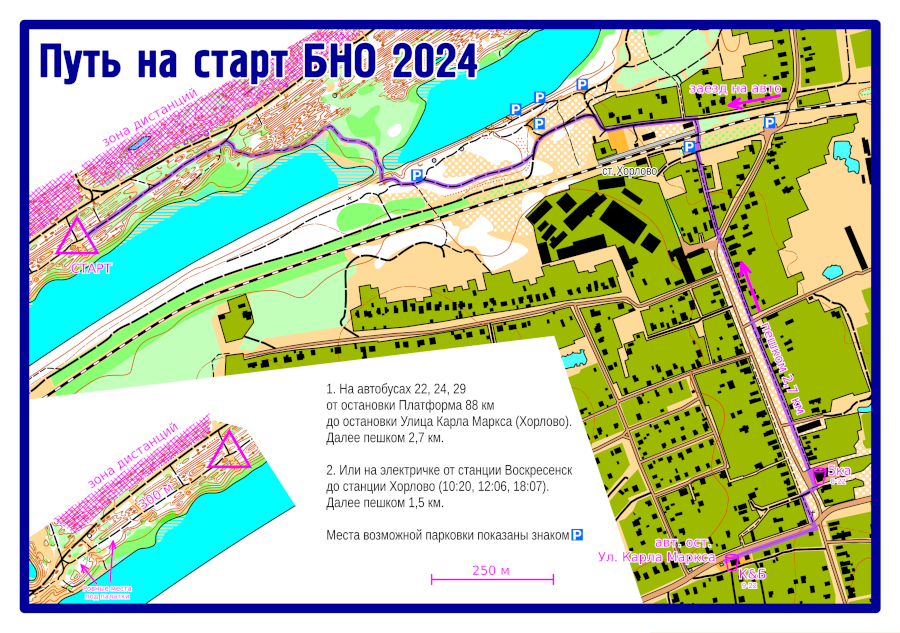
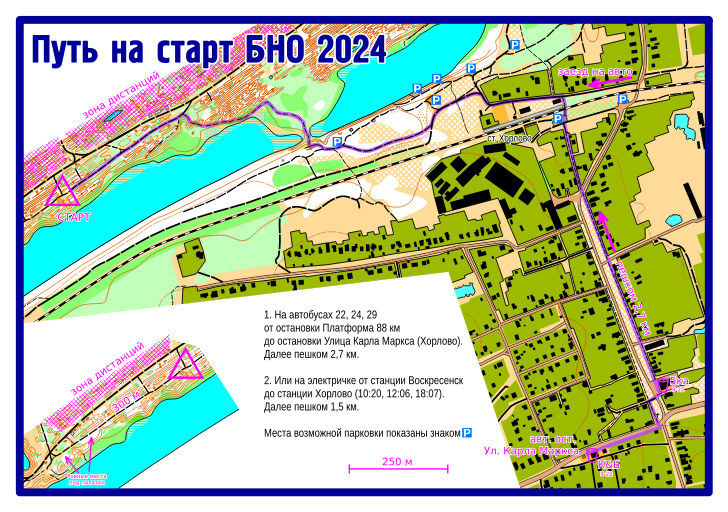
up

diff --git a/pages/bno2024/info2.md b/pages/bno2024/info2.md
@@ -50,7 +50,7 @@ table_border: true
 2. На электричке от Москвы-Казанской до станции Воскресенск (следующая после пл. 88 км) ([расписание до ст. Воскресенск](https://rasp.yandex.ru/search/?fromId=c213&fromName=%D0%9C%D0%BE%D1%81%D0%BA%D0%B2%D0%B0&toId=s9600705&toName=%D0%92%D0%BE%D1%81%D0%BA%D1%80%D0%B5%D1%81%D0%B5%D0%BD%D1%81%D0%BA&when=9+%D0%BD%D0%BE%D1%8F%D0%B1%D1%80%D1%8F)).
 Далее пересадка на электричку до ст. Хорлово (10:20, 12:06, 18:07, [расписание](https://rasp.yandex.ru/search/?fromId=s9600705&fromName=%D0%92%D0%BE%D1%81%D0%BA%D1%80%D0%B5%D1%81%D0%B5%D0%BD%D1%81%D0%BA&toId=s9601932&toName=%D0%A5%D0%BE%D1%80%D0%BB%D0%BE%D0%B2%D0%BE&when=9+%D0%BD%D0%BE%D1%8F%D0%B1%D1%80%D1%8F)).
 В пути 11 минут.
-Далее пешком около 1 км до места старта.
+Далее пешком 1,5 км до места старта.
 
 Первый обратный автобус в воскресенье в 4:11.
 Первая обратная электричка от ст. Хорлово в 5:32.
@@ -58,6 +58,9 @@ table_border: true
 **Проезд на автомобиле**
 
 До посёлка Хорлово, далее по схеме.
+Возможные места для парковки отмечены на схеме.
+Хорошие места с твёрдым покрытием у станции Хорлово и у ж/д переезда.
+Возможна парковка в лесу, но мест немного и могут возникнуть проблемы с разъездом.
 
 Дистанции
 ---------------------------------------------------
